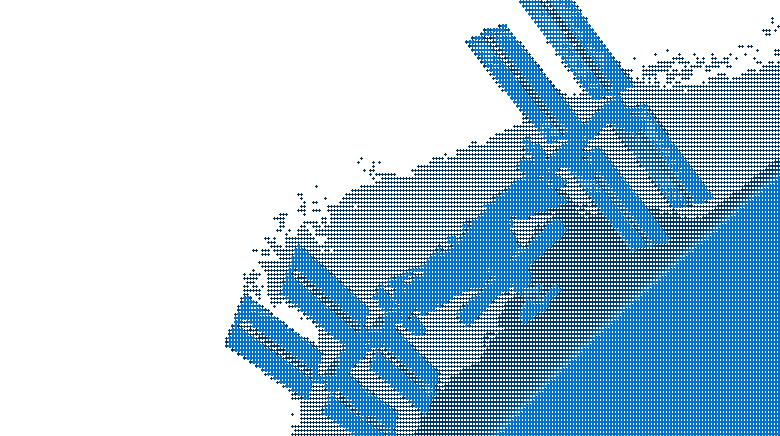
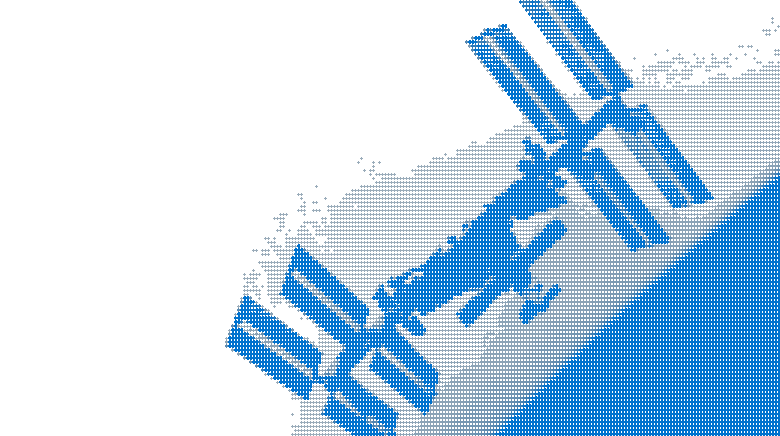
chore: added better transparency

diff --git a/blue_mosaic.py b/blue_mosaic.py
@@ -57,24 +57,28 @@ def lerp_color(c1, c2, t):
     return tuple(int(a + (b - a) * t) for a, b in zip(c1, c2))
 
 
-def add_alpha_from_brightness(bgr_tile, black_rgb):
+def add_alpha_from_brightness(bgr_tile, black_rgb, color_rgb):
     """
-    Convert a 3-channel BGR tile to 4-channel BGRA where pixels matching
-    the black/background color become fully transparent (alpha=0) and all
-    other pixels (the colored pattern) stay fully opaque (alpha=255).
-    A small tolerance is used so near-black pixels from anti-aliasing
-    also become transparent.
+    Convert a 3-channel BGR tile to 4-channel BGRA. The original pixel
+    colors are preserved exactly; alpha is derived from each pixel's
+    distance from the black color relative to the distance between
+    black and the chosen color. This avoids the problem of grayscale
+    luminance underweighting blue.
     """
-    # black_rgb is in RGB order; convert to BGR for comparison
     black_bgr = np.array([black_rgb[2], black_rgb[1], black_rgb[0]], dtype=np.float32)
+    color_bgr = np.array([color_rgb[2], color_rgb[1], color_rgb[0]], dtype=np.float32)
     tile_f = bgr_tile.astype(np.float32)
-    # Per-pixel L2 distance from the black color
+
+    # Full range: distance from black to the chosen color
+    full_dist = np.sqrt(np.sum((color_bgr - black_bgr) ** 2))
+    if full_dist < 1.0:
+        full_dist = 1.0
+
+    # Each pixel's distance from black, normalized to [0, 1]
     dist = np.sqrt(np.sum((tile_f - black_bgr) ** 2, axis=2))
-    # Pixels within a small tolerance of the background color -> transparent
-    # Everything else -> fully opaque
-    tolerance = 10.0
-    alpha = np.where(dist <= tolerance, 0, 255).astype(np.uint8)
-    # Build BGRA
+    t = np.clip(dist / full_dist, 0.0, 1.0)
+    alpha = (t * 255.0).astype(np.uint8)
+
     bgra = np.dstack([bgr_tile, alpha])
     return bgra
 
@@ -129,7 +133,7 @@ def generate_tiles_blocks(color_rgb, black_rgb, count, tile_w, tile_h, transpare
 
         arr = np.array(img)[:, :, ::-1]
         if transparent:
-            arr = add_alpha_from_brightness(arr, black_rgb)
+            arr = add_alpha_from_brightness(arr, black_rgb, color_rgb)
         tiles.append(arr)
     return tiles
 
@@ -158,7 +162,7 @@ def generate_tiles_halftone(color_rgb, black_rgb, count, tile_w, tile_h, transpa
 
         arr = np.array(img)[:, :, ::-1]
         if transparent:
-            arr = add_alpha_from_brightness(arr, black_rgb)
+            arr = add_alpha_from_brightness(arr, black_rgb, color_rgb)
         tiles.append(arr)
     return tiles
 
@@ -196,7 +200,7 @@ def generate_tiles_crosshatch(color_rgb, black_rgb, count, tile_w, tile_h, trans
 
         arr = np.array(img)[:, :, ::-1]
         if transparent:
-            arr = add_alpha_from_brightness(arr, black_rgb)
+            arr = add_alpha_from_brightness(arr, black_rgb, color_rgb)
         tiles.append(arr)
     return tiles
 
@@ -225,7 +229,7 @@ def generate_tiles_noise(color_rgb, black_rgb, count, tile_w, tile_h, transparen
         arr[~mask] = black_rgb
         bgr = arr[:, :, ::-1].copy()  # RGB -> BGR
         if transparent:
-            bgr = add_alpha_from_brightness(bgr, black_rgb)
+            bgr = add_alpha_from_brightness(bgr, black_rgb, color_rgb)
         tiles.append(bgr)
     return tiles
 
@@ -733,14 +737,14 @@ def main():
     if args.codebook_dir:
         tiles = load_tiles_from_dir(args.codebook_dir, tile_h, tile_w)
         if args.transparent:
-            tiles = [add_alpha_from_brightness(t, black_rgb) for t in tiles]
+            tiles = [add_alpha_from_brightness(t, black_rgb, color_rgb) for t in tiles]
     elif args.source_images:
         out_dir = os.path.join(os.path.dirname(args.output), "blue_tiles")
         tiles = convert_photos_to_blue(
             args.source_images, out_dir,
             args.color, args.black_color, tile_h, tile_w)
         if args.transparent:
-            tiles = [add_alpha_from_brightness(t, black_rgb) for t in tiles]
+            tiles = [add_alpha_from_brightness(t, black_rgb, color_rgb) for t in tiles]
     else:
         mode = args.tile_mode or "blocks"
         print(f"  Generating {args.levels} '{mode}' tiles at {tile_w}x{tile_h} px...")
